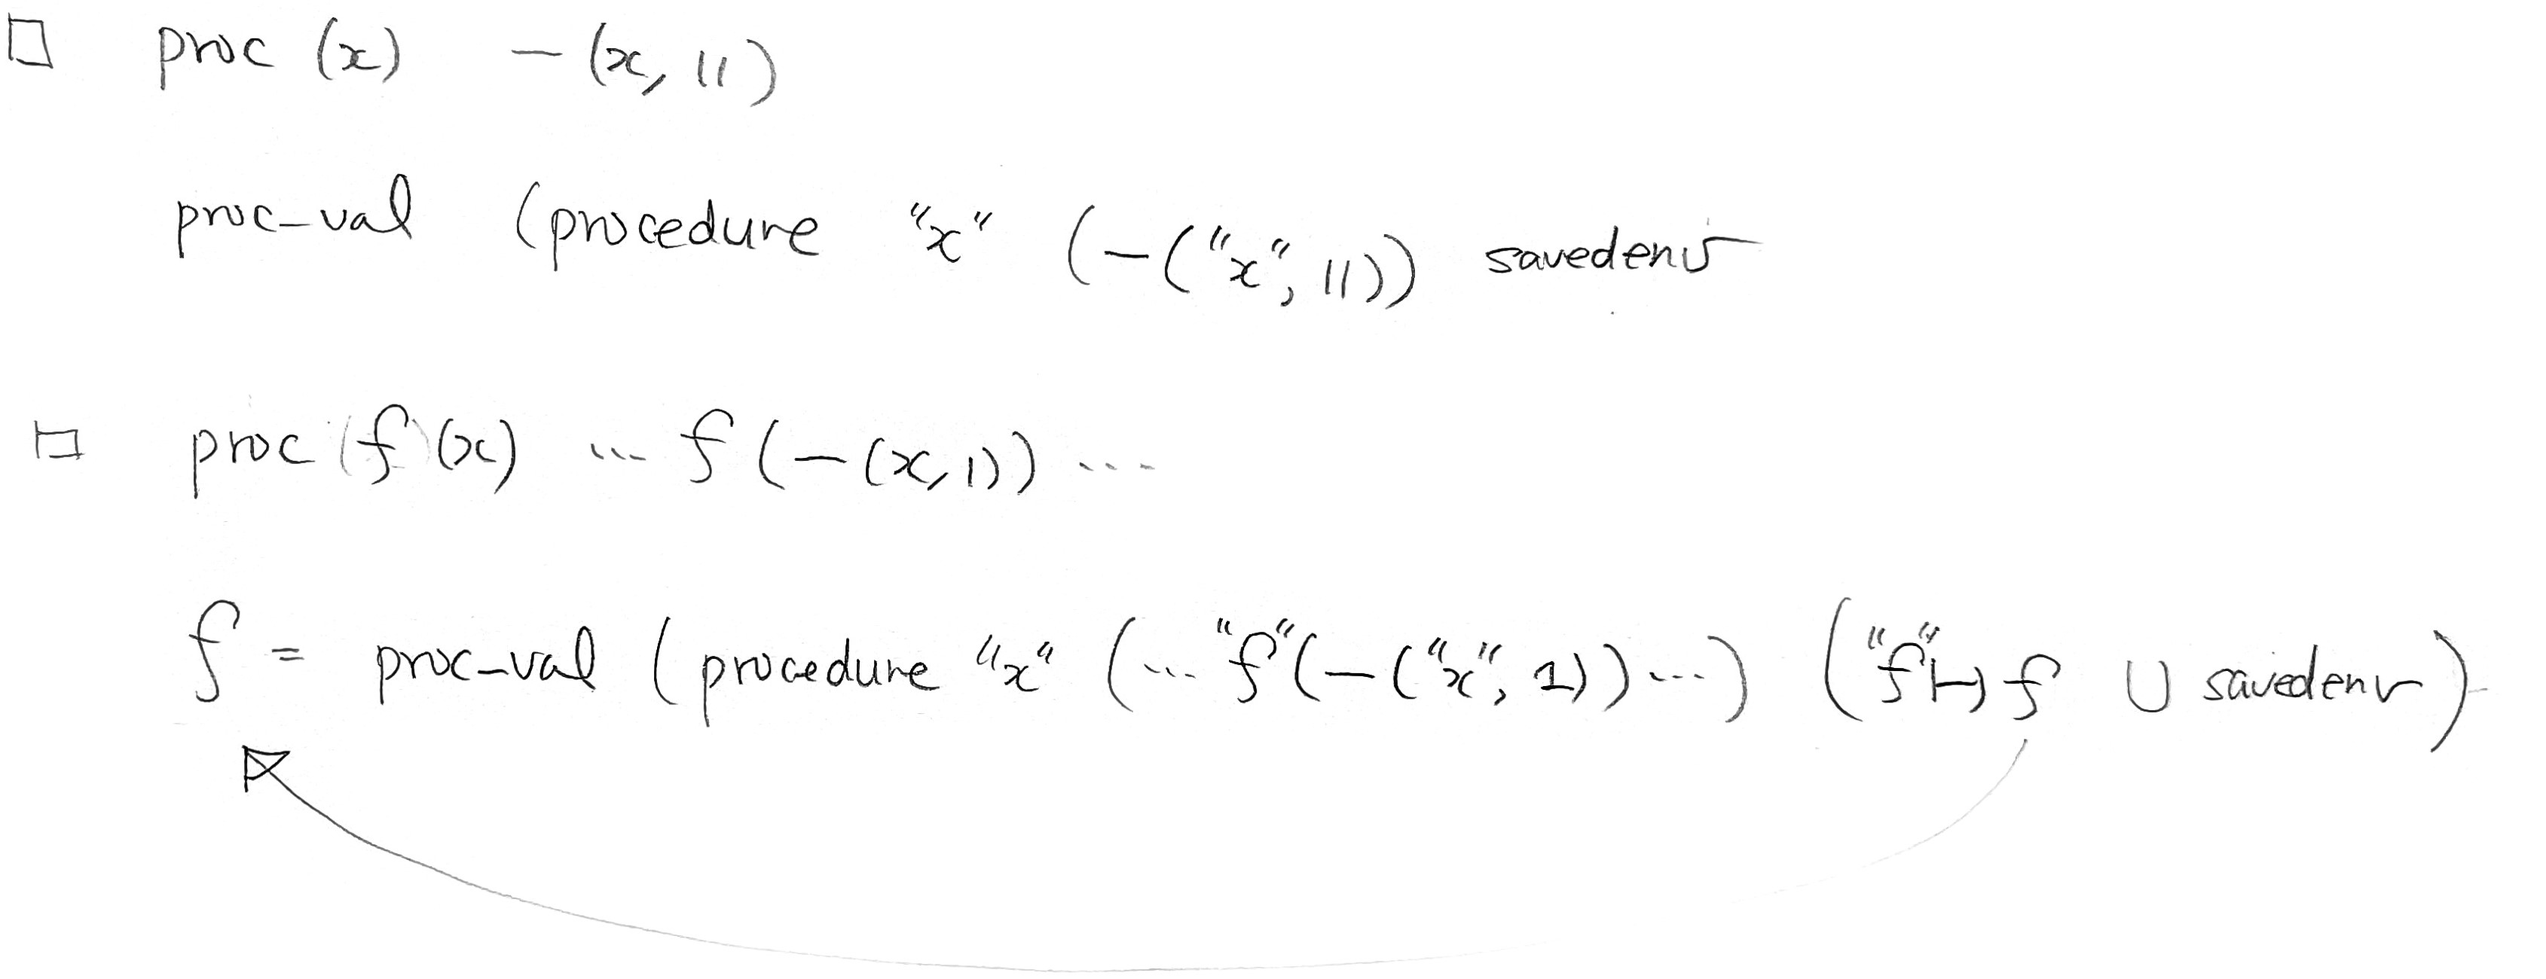
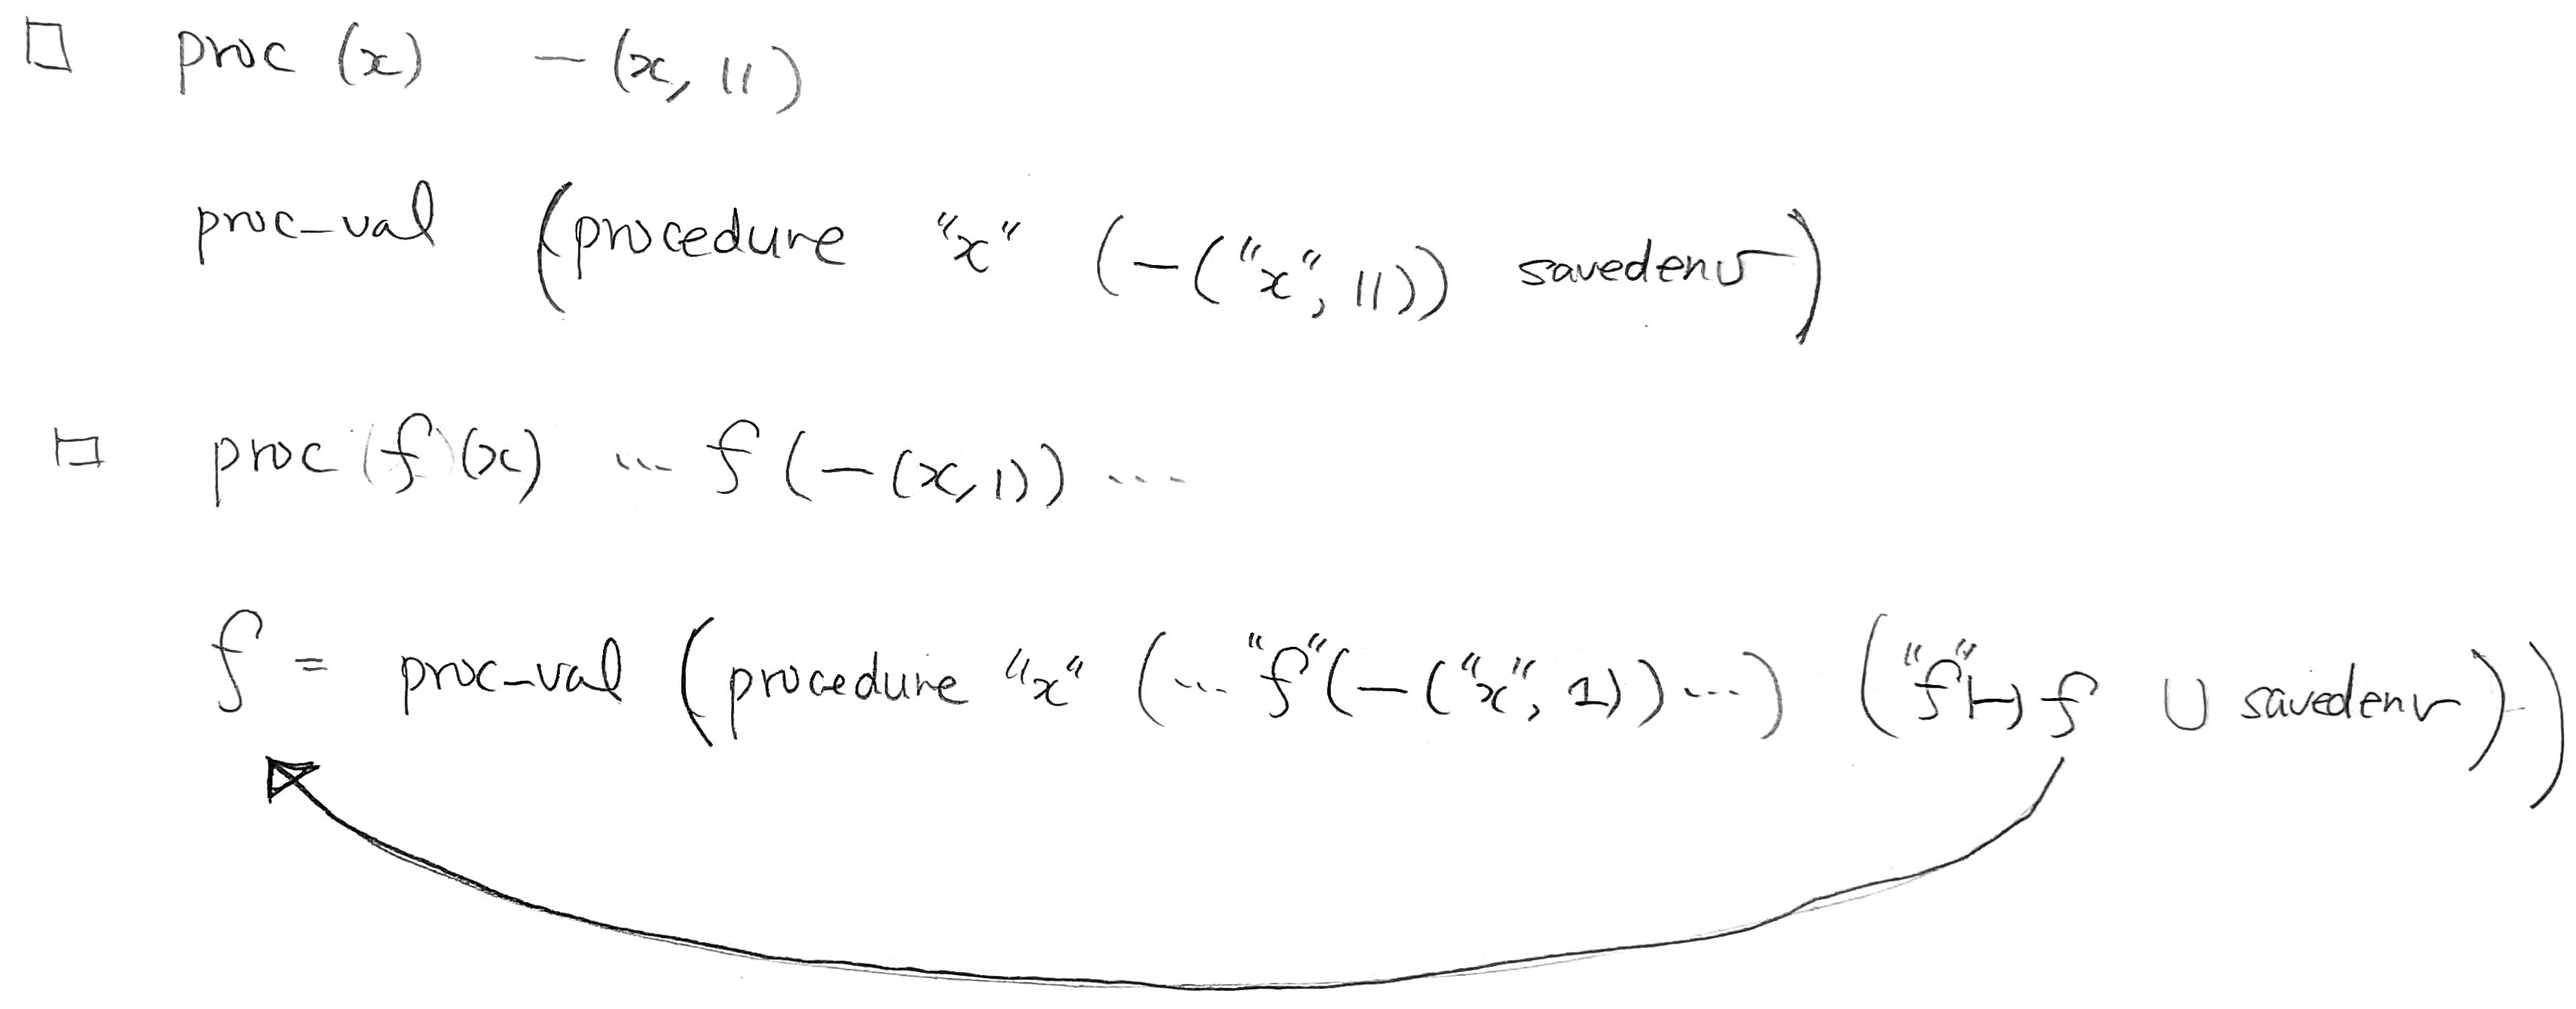
update the figure

diff --git a/slides/eopl3.tex b/slides/eopl3.tex
@@ -382,7 +382,7 @@ the creation environment must contain a binding for double,
 which is the closure itself!
 
 \begin{center}
-\includegraphics[width=0.72\linewidth]{rec_proc_val.jpg}
+\includegraphics[width=0.7\linewidth]{rec_proc_val.jpg}
 \end{center}
 
 %%%%%%%%%%%% Slide %%%%%%%%%%%%%%%%%%%%%%%%%%%%%%%%%%%%%%%%%%%%%%%%%%%
